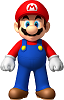
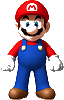
More Changes

diff --git a/Q2.py b/Q2.py
@@ -2,7 +2,7 @@ import pygame
 import sys
 import random
 
-# Initialize Pygame
+# Initiate game --
 pygame.init()
 
 # Constants
@@ -10,7 +10,7 @@ WIDTH, HEIGHT = 800, 600
 FPS = 60
 
 # Colors
-WHITE = (255, 255, 255)
+WHITE = (157, 230, 240)
 
 # Player Class
 class Player(pygame.sprite.Sprite):
@@ -19,14 +19,15 @@ class Player(pygame.sprite.Sprite):
         # Load the character image
         self.image = pygame.image.load("mario.png").convert_alpha()
         self.rect = self.image.get_rect()
-        self.rect.center = (WIDTH // 2, HEIGHT // 2)
+        self.rect.centerx = WIDTH // 2
+        self.rect.bottom = HEIGHT  
         self.speed = 5
         self.jump_height = -15
         self.gravity = 1
         self.velocity = [0, 0]
         self.max_health = 100  # Maximum health
         self.health = self.max_health
-        self.lives = 2  # Set initial lives to the desired value (e.g., 3)
+        self.lives = 2  # Set initial lives to the desired value
         self.hit = False  # Flag to track if player has been hit
         self.score = 0
 
@@ -37,7 +38,7 @@ class Player(pygame.sprite.Sprite):
         if keys[pygame.K_RIGHT]:
             self.velocity[0] = self.speed
 
-        if keys[pygame.K_UP] and self.rect.bottom == HEIGHT:
+        if keys[pygame.K_UP] and self.rect.bottom == HEIGHT - 50:
             self.jump()
 
         self.velocity[1] += self.gravity
@@ -49,8 +50,8 @@ class Player(pygame.sprite.Sprite):
             self.rect.left = 0
         if self.rect.right > WIDTH:
             self.rect.right = WIDTH
-        if self.rect.bottom > HEIGHT:
-            self.rect.bottom = HEIGHT
+        if self.rect.bottom > HEIGHT - 50:
+            self.rect.bottom = HEIGHT - 50
             self.velocity[1] = 0
 
     def jump(self):
@@ -102,7 +103,7 @@ class Enemy(pygame.sprite.Sprite):
         # Load the mushroom image
         self.image = pygame.image.load("mushroom.png").convert_alpha()
         self.rect = self.image.get_rect()
-        self.rect.center = (x, y)
+        self.rect.center = (x, y - 50)
         self.speed = 3
 
     def update(self):
@@ -122,7 +123,7 @@ def game_over_screen():
     global screen, all_sprites, projectiles, enemies, health_refills  # Declare global variables
     font = pygame.font.Font(None, 74)
     game_over_text = font.render("Game Over", True, (255, 0, 0))
-    restart_text = font.render("Press R to Restart", True, (255, 255, 255))
+    restart_text = font.render("Press R to Restart", True, (255, 0, 0))
 
     screen.blit(game_over_text, (WIDTH // 2 - 150, HEIGHT // 2 - 50))
     screen.blit(restart_text, (WIDTH // 2 - 200, HEIGHT // 2 + 50))
@@ -164,8 +165,14 @@ def main():
     player = Player()
     all_sprites.add(player)
 
+    # Load the background image
+    background_image = pygame.image.load("background.jpg").convert()
+    background_rect = background_image.get_rect()
+
+    
+
     shooting_cooldown = 0
-    max_cooldown = 30  # Adjust the cooldown value as needed
+    max_cooldown = 30  # Adjust the cooldown value
 
     running = True
     while running:
@@ -233,7 +240,8 @@ def main():
 
             player.health = max(0, player.health)  # Ensure health doesn't go below 0
 
-        screen.fill((0, 0, 0))
+        # Blit the background image onto the screen
+        screen.blit(background_image, background_rect)
 
         # Draw the health bar
         pygame.draw.rect(screen, (255, 0, 0), (10, 10, player.max_health * 2, 20))
